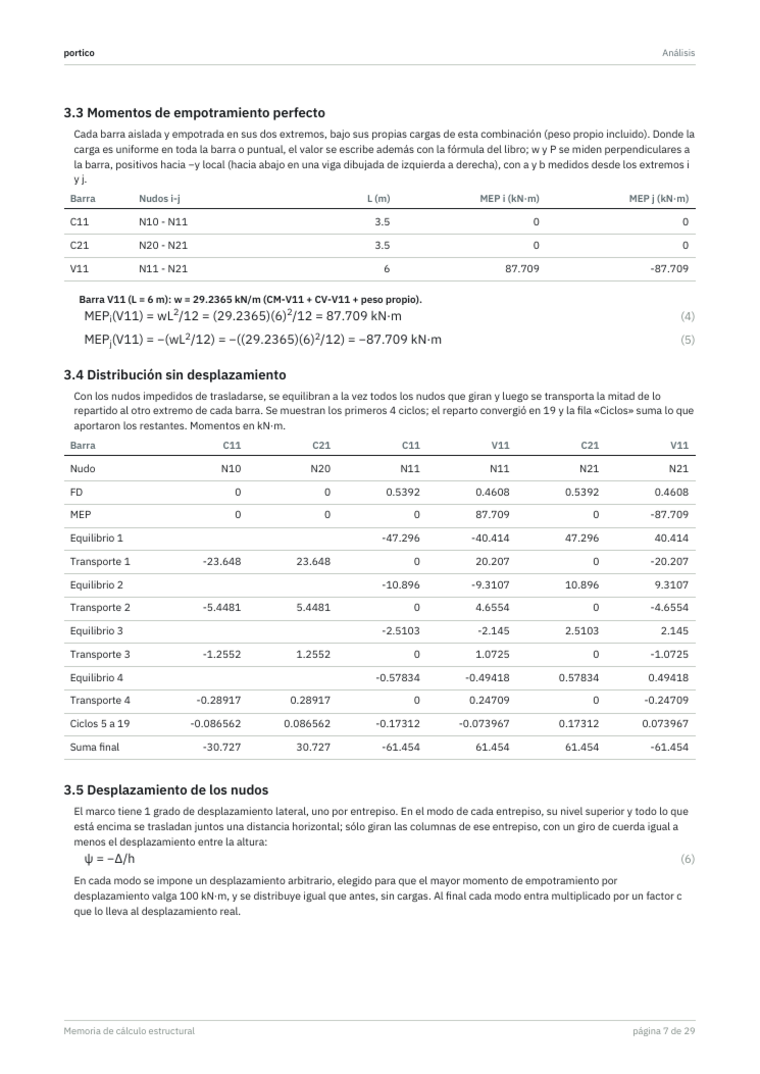
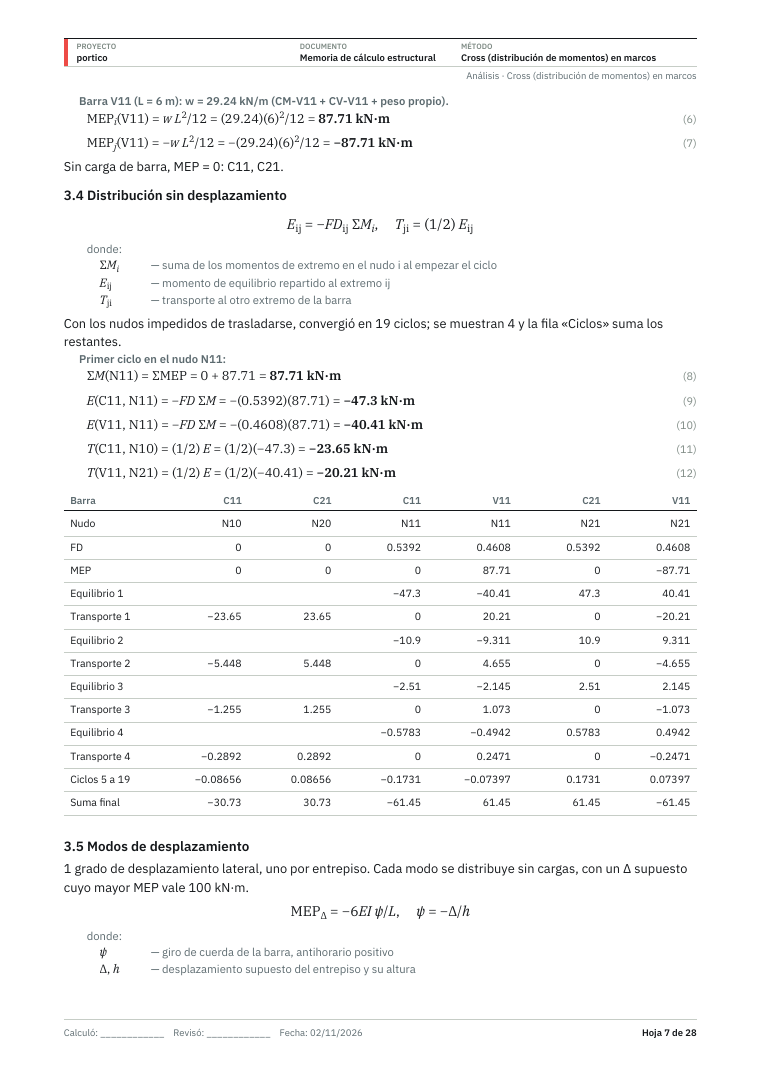
docs(brandbook): capturas de la memoria con la tipografía y el esquema nuevos (Cross, tres momentos, armadura por trabajo virtual)
Claude-Session: https://claude.ai/code/session_012yyz5B7ndj3Xzi6Hecw9BH

diff --git a/docs/brandbook/index.html b/docs/brandbook/index.html
@@ -20,13 +20,15 @@ body{background:#EDEFE9}
 <section class="board" id="memoria-2026-11-02" aria-label="Creación rápida y memoria de cálculo">
 <div style="padding: 48px clamp(20px, 5vw, 80px); background: #F7F6F1; color: #14171A">
 <h2 style="font-family: 'Space Grotesk', sans-serif; font-size: 30px; margin: 0 0 16px">Creación rápida y memoria de cálculo · 2 de noviembre de 2026</h2>
-<p style="max-width: 960px; line-height: 1.6">El Modelo 2D vacío crea viga, voladizo, continua, pórtico, armadura o arco con sus medidas y los calcula en un toque. La memoria PDF sigue el orden de una memoria de oficina, en IBM Plex Sans con fórmulas legibles, diagramas N, V y M, cuerpos libres rotulados y la marca FStructure; se resuelve por el método que se elija entre los que aplican.</p>
+<p style="max-width: 960px; line-height: 1.6">El Modelo 2D vacío crea viga, voladizo, continua, pórtico, armadura o arco con sus medidas y los calcula en un toque. La memoria PDF sigue el orden de una memoria de oficina: texto en IBM Plex Sans y fórmulas en IBM Plex Serif (variables en cursiva, resultado en seminegrita), y en cada método datos, planteamiento con «donde:», desarrollo numerado, resultados y comprobación; diagramas N, V y M, cuerpos libres rotulados y la marca FStructure. Se resuelve por el método que se elija entre los que aplican.</p>
 <p><a href="memoir-quickstart-2026-11-02.md">Decisiones, canon aplicado y capturas</a></p>
 <div style="display: grid; grid-template-columns: repeat(auto-fit, minmax(240px, 1fr)); gap: 24px; margin-top: 28px">
 <figure style="margin: 0"><img src="assets/memoir-2026-11-02-2d-quickstart-light.png" alt="2D · Creación rápida" loading="lazy" style="display: block; width: 100%; max-height: 680px; object-fit: contain; border-radius: 12px"><figcaption style="margin-top: 10px; line-height: 1.5">2D · Creación rápida</figcaption></figure>
 <figure style="margin: 0"><img src="assets/memoir-2026-11-02-2d-reactions-390-dark.png" alt="2D · Reacciones por apoyo" loading="lazy" style="display: block; width: 100%; max-height: 680px; object-fit: contain; border-radius: 12px"><figcaption style="margin-top: 10px; line-height: 1.5">2D · Reacciones por apoyo</figcaption></figure>
 <figure style="margin: 0"><img src="assets/memoir-2026-11-02-pdf-cover.png" alt="PDF · Portada" loading="lazy" style="display: block; width: 100%; max-height: 680px; object-fit: contain; border-radius: 12px"><figcaption style="margin-top: 10px; line-height: 1.5">PDF · Portada</figcaption></figure>
 <figure style="margin: 0"><img src="assets/memoir-2026-11-02-pdf-cross-table.png" alt="PDF · Cross en marcos" loading="lazy" style="display: block; width: 100%; max-height: 680px; object-fit: contain; border-radius: 12px"><figcaption style="margin-top: 10px; line-height: 1.5">PDF · Cross en marcos</figcaption></figure>
+<figure style="margin: 0"><img src="assets/memoir-2026-11-02-pdf-three-moment.png" alt="PDF · Tres momentos" loading="lazy" style="display: block; width: 100%; max-height: 680px; object-fit: contain; border-radius: 12px"><figcaption style="margin-top: 10px; line-height: 1.5">PDF · Tres momentos</figcaption></figure>
+<figure style="margin: 0"><img src="assets/memoir-2026-11-02-pdf-truss-virtual-work.png" alt="PDF · Armadura, trabajo virtual" loading="lazy" style="display: block; width: 100%; max-height: 680px; object-fit: contain; border-radius: 12px"><figcaption style="margin-top: 10px; line-height: 1.5">PDF · Armadura, trabajo virtual</figcaption></figure>
 </div>
 <p style="color: #3F4A50; font-size: 13px; line-height: 1.5">Capturas reales de Chromium y páginas rasterizadas de la memoria exportada.</p>
 </div>

diff --git a/docs/brandbook/memoir-quickstart-2026-11-02.md b/docs/brandbook/memoir-quickstart-2026-11-02.md
@@ -33,7 +33,7 @@ La memoria sigue el orden de una memoria de oficina: **Datos generales** (objeto
 | Esquema de cada método | Datos (tabla de magnitud, símbolo, valor, unidad) → Planteamiento (la ecuación sin números y «donde:») → Desarrollo (sustituciones numeradas) → Resultados (recuadro con filete del acento) → Comprobación (una línea verde o ámbar contra el análisis matricial). |
 | Color | Acento de la familia Análisis (`#C23A33` en texto, `#ED4B46` en la franja de la marca); N, V y M con sus señales; tensión azul y compresión roja en armaduras. |
 | Marca | La ménsula con la franja roja y «FStructure» en la portada; la portada nombra el procedimiento de esa copia. |
-| Dibujos | Cargas sumadas con los factores del escenario y rotuladas con su magnitud; reacciones apiladas bajo su apoyo; arcos sobre su curva; las cifras buscan hueco y no cruzan barras. |
+| Dibujos | Cargas sumadas con los factores del escenario y rotuladas con su magnitud; reacciones apiladas bajo su apoyo; arcos sobre su curva; las cifras buscan hueco y evitan otras cifras, barras, flechas y cortes; en armaduras cada barra lleva su cifra en el punto medio (T azul, C rojo). |
 
 El diálogo de exportación ofrece primero los métodos que aplican al modelo y pliega los demás con su motivo.
 
@@ -41,6 +41,8 @@ El diálogo de exportación ofrece primero los métodos que aplican al modelo y 
 ![Portada](assets/memoir-2026-11-02-pdf-cover.png)
 ![Datos generales](assets/memoir-2026-11-02-pdf-general-data.png)
 ![Cross en marcos: tabla de distribución](assets/memoir-2026-11-02-pdf-cross-table.png)
+![Tres momentos: planteamiento, desarrollo y resultados](assets/memoir-2026-11-02-pdf-three-moment.png)
+![Armadura por trabajo virtual: cada barra rotulada en su punto medio](assets/memoir-2026-11-02-pdf-truss-virtual-work.png)
 ![Resultados: cuerpo libre y diagramas](assets/memoir-2026-11-02-pdf-results.png)
 ![Conclusiones y firmas](assets/memoir-2026-11-02-pdf-conclusions.png)
 
